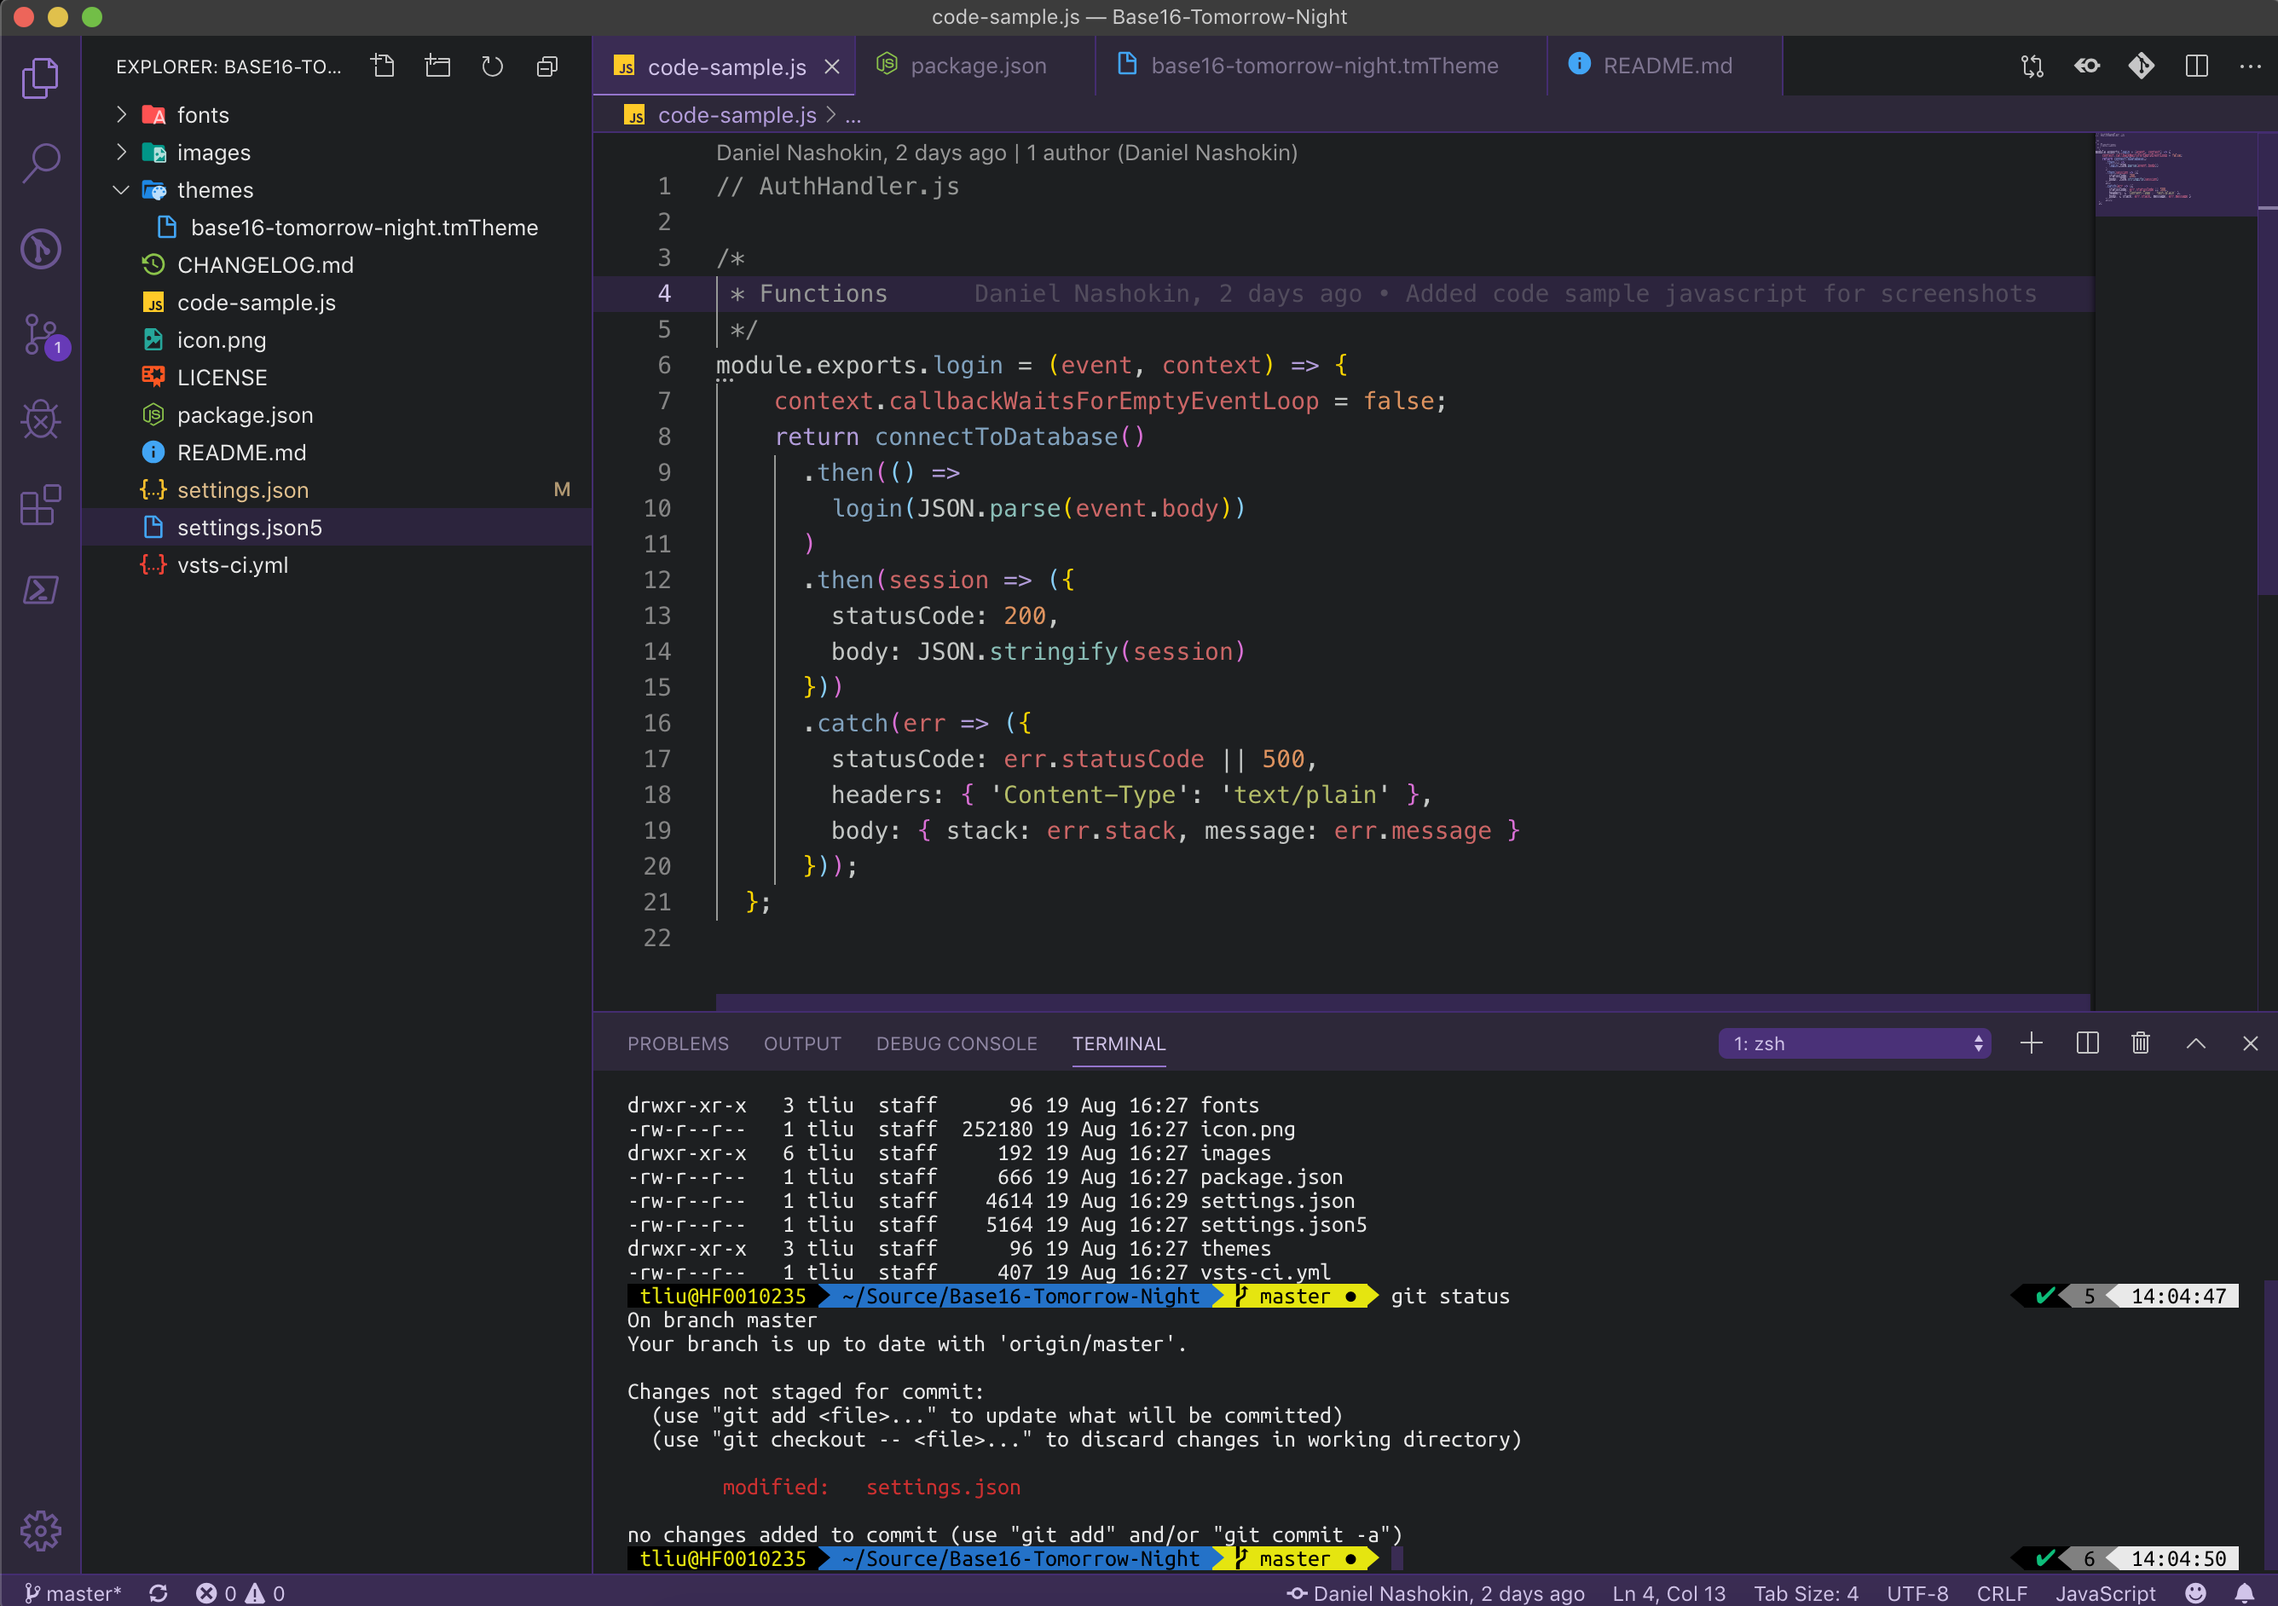
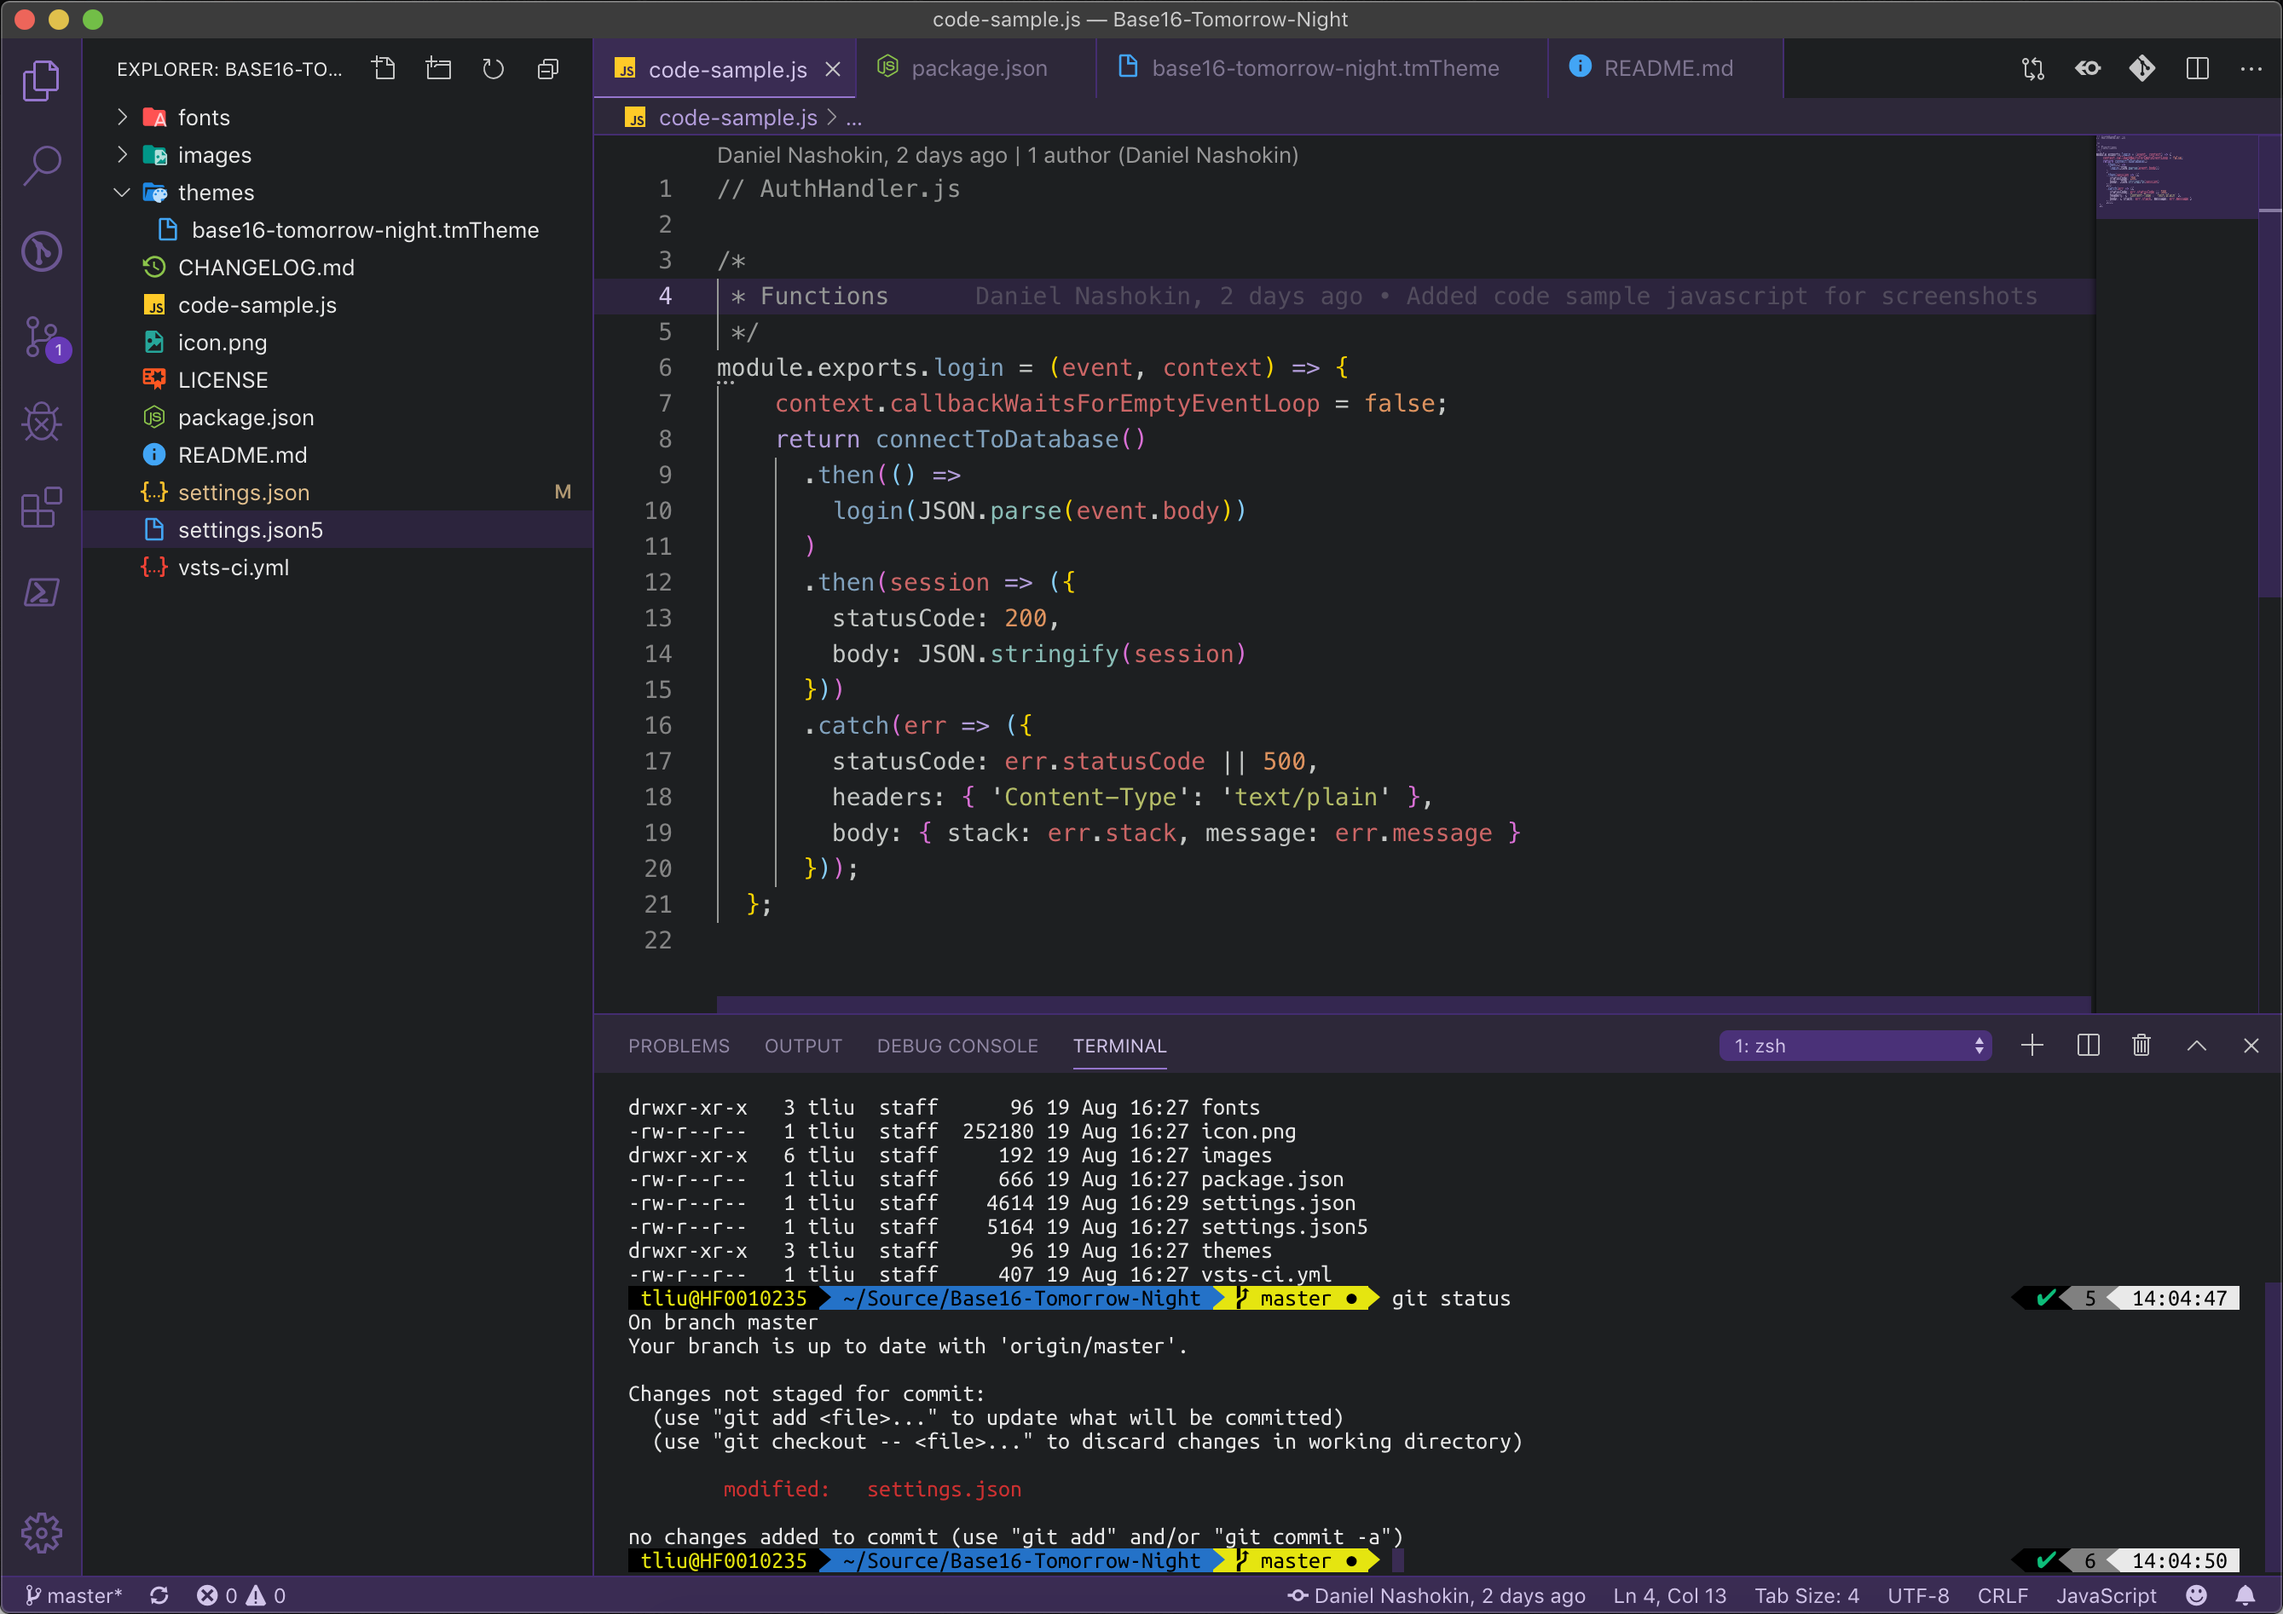
Cropped macOS screenshot and updated README

diff --git a/README.md b/README.md
@@ -13,8 +13,7 @@ Copy this json to your Visual Studio Code user setting section for the purple cu
 	- copy/paste everything from `settings.json` into right hand side panel and save; delete all previous settings before paste; merge it if you know what you're doing :)
 
 #### macOS
-	-> Screenshot coming soon
-<!-- ![Base16 Visual Studio Code mac](https://raw.githubusercontent.com/nashokin/Base16-Tomorrow-Night/master/images/Screenshot-mac.png) -->
+![Base16 Visual Studio Code mac](https://raw.githubusercontent.com/nashokin/Base16-Tomorrow-Night/master/images/Screenshot-mac.png)
 #### Windows
 ![Base16 Visual Studio Code windows](https://raw.githubusercontent.com/nashokin/Base16-Tomorrow-Night/master/images/Screenshot-windows.png)
 #### Linux
